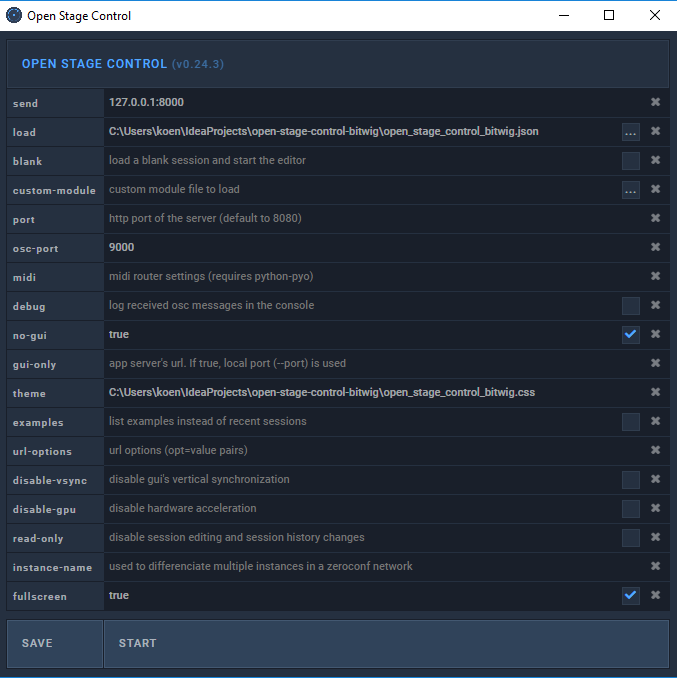
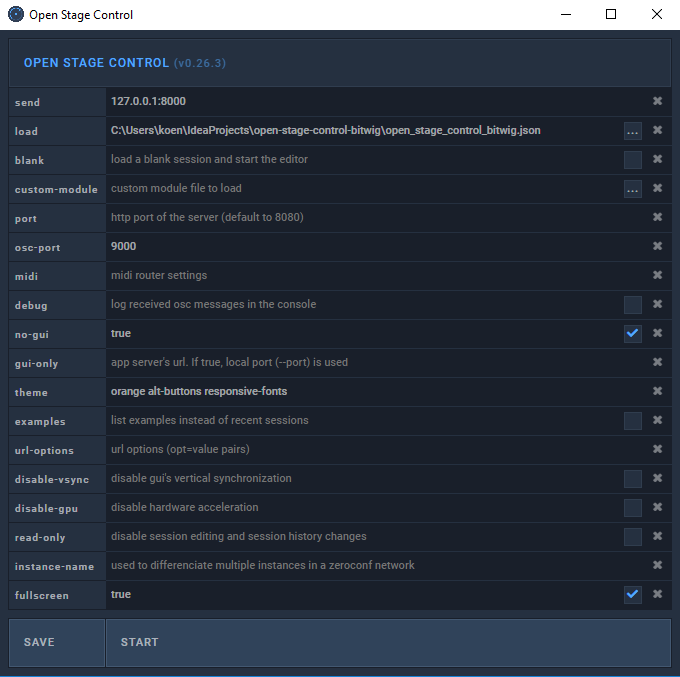
documentation

diff --git a/README.md b/README.md
@@ -1,16 +1,11 @@
-# -----work in progress-----
-
-Partially done: transport bar, device page, drum page
-
-TODO's: keyboard page, mixer page
-
 # Open Stage Control template for Bitwig
-With these files, you can use any device that has google chrome, to remotely control Bitwig studio. 
-I use it on my android nexus 9 tablet and my little json template is optimized for this resolution.
+You can use any device that has google chrome, to remotely control Bitwig studio.
+I tried to make it responsive so it should look nice on tablet and phone.
 
 ## Dependencies to install
-- [DrivenByMoss](https://github.com/git-moss/DrivenByMoss/): a Bitwig extension that exposes the Bitwig JAVA api to [OSC](http://opensoundcontrol.org/) commands
+- [DrivenByMoss](https://github.com/git-moss/DrivenByMoss/): an advanced Bitwig extension that communicates with the Bitwig JAVA api to send and receive [OSC](http://opensoundcontrol.org/) commands
 - [Open Stage Control](https://github.com/jean-emmanuel/open-stage-control/): a cross platform webapplication that uses OSC language it's own widgets
+- you also need a virtual midi channel, I used a program called loopMIDI
 
 ## Configuration Bitwig
 ![Bitwig settings](img/bitwig_settings.png)
@@ -30,8 +25,7 @@ This is the most simple way to start Open Stage Control:
 Headless mode means, starting the program with the command line.
 It won't produce the settings popup and another big advantage is that it will consume a lot less CPU, which is important when you're probably running Bitwig at the same machine.
 
-### From binary
-![Open Stage Control settings (headless)](img/open_stage_control_headless_from_binary.png)
-
-### From source
-![Open Stage Control settings (headless)](img/open_stage_control_headless_from_source.png)
+To do this, simply make a file on your desktop that executes Open Stage Control with the appropriate settings.
+For example this is the contents of my open_stage_control.bat file:
+```
+"C:\Program Files\open-stage-control-win32-x64\open-stage-control.exe" --send 127.0.0.1:8000 --osc-port 9000 --theme orange alt-buttons responsive-fonts --load C:\\Users\\koen\\IdeaProjects\\open-stage-control-bitwig\\open_stage_control_bitwig.json --no-gui --fullscreen```
